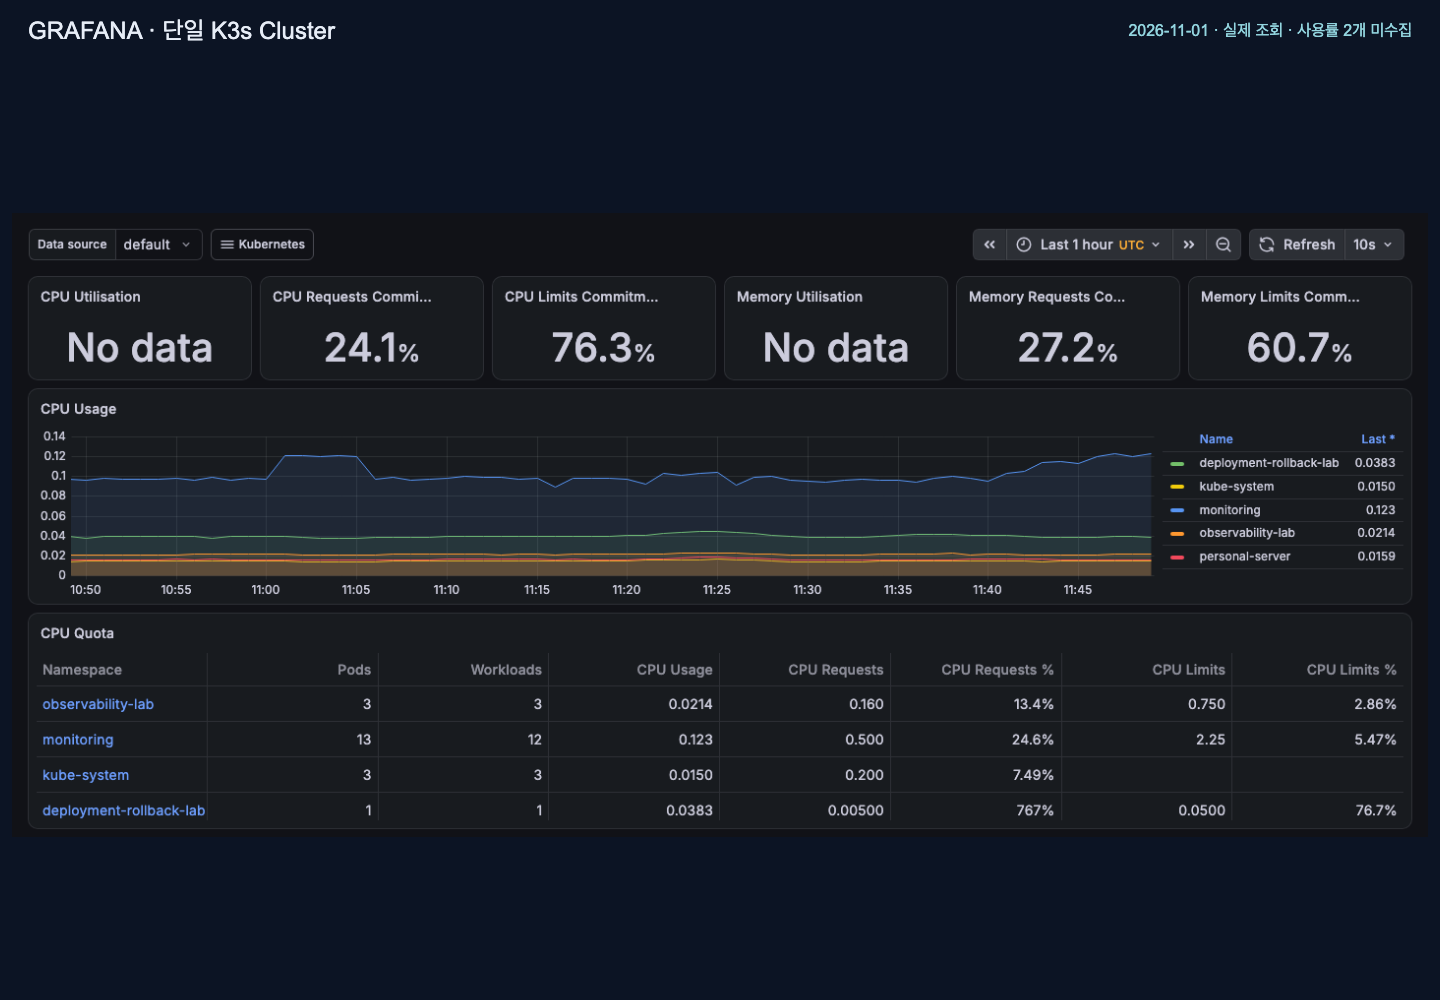
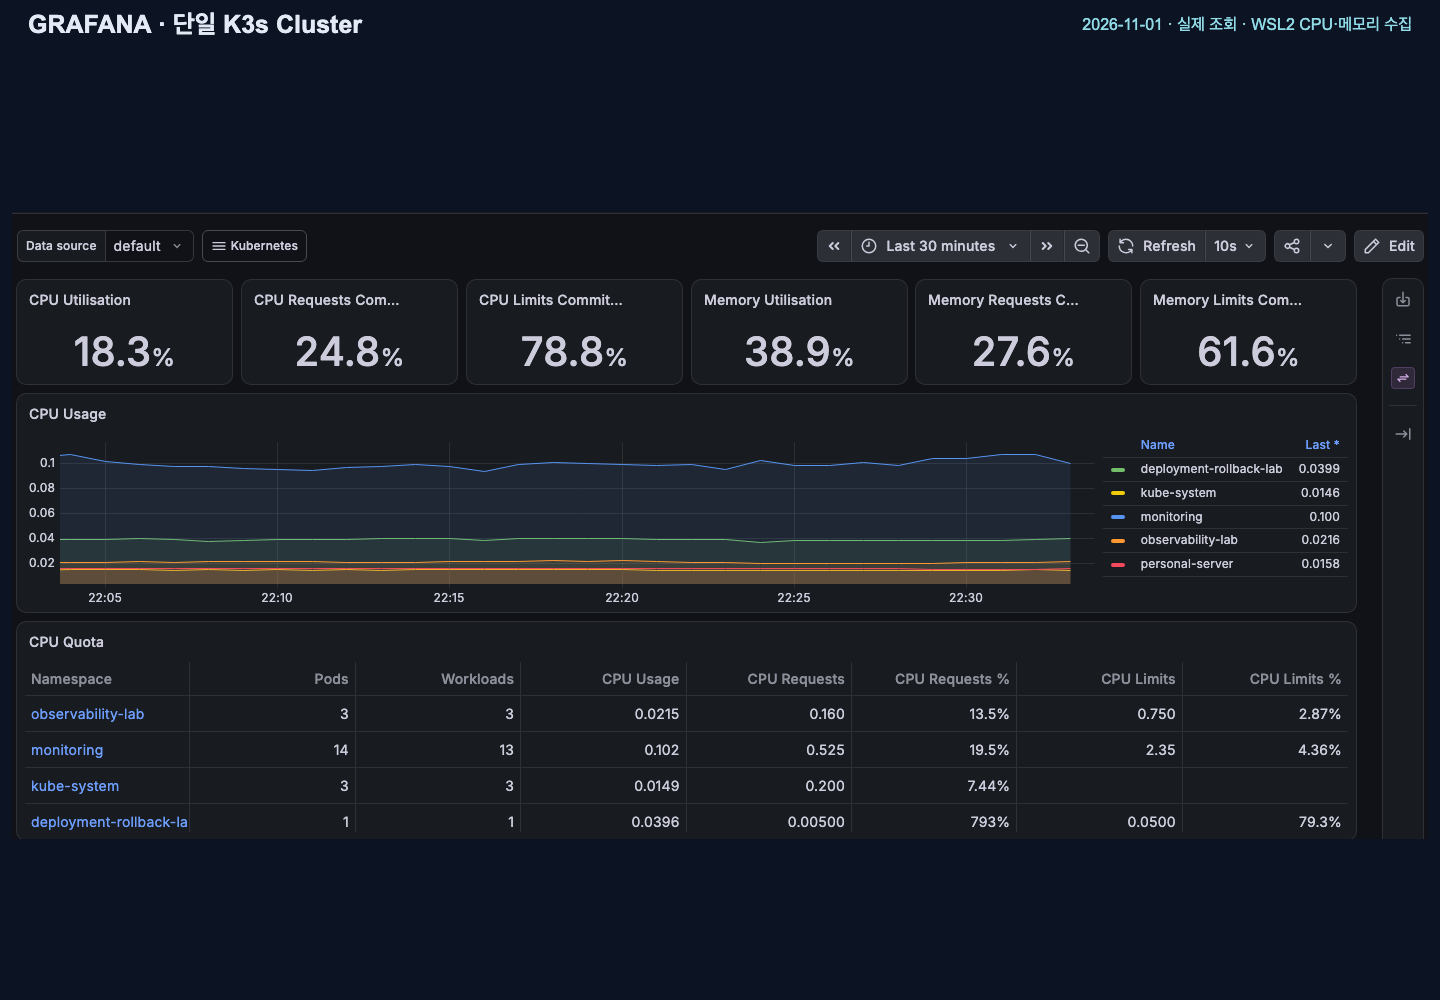
문서: WSL CPU·메모리 운영 검증과 화면 반영

diff --git a/docs/20261101_Grafana_WSL_CPU메모리_운영검증.md b/docs/20261101_Grafana_WSL_CPU메모리_운영검증.md
@@ -4,6 +4,8 @@
 
 | 항목 | 내용 | 비고 |
 |---|---|---|
+| 기준 시각 | 2026-11-01 22:33 | Asia/Seoul, 실제 화면 재촬영 기준 |
+| 작성·실행 | 주 담당 Codex | 구성·절차 구현자와 최종 독립 검토자 분리 |
 | 기준 | 기존 kube-prometheus-stack 88.6.1의 scrape·node.rules | 별도 Git 소유 최소 exporter, 기존 release 전체 upgrade 제외 |
 | 목적 | 단일 Cluster의 CPU·메모리 사용률 결측 복구 | Windows 물리 호스트가 아닌 WSL2 노드 범위 |
 | 승인 | 실제 WSL 검증·운영 적용·문제 시 원복과 결과 확인 | 이번 수집기 추가에 한정 |
@@ -11,14 +13,14 @@
 
 ## 핵심 요약
 
-호스트 볼륨을 전혀 마운트하지 않고 CPU·meminfo collector만 활성화함. hostNetwork·hostPID·hostIPC를 사용하지 않으며 일반 컨테이너의 `/proc`·`/sys` 경로를 읽음. WSL 커널 전체 통계와 일치하는지는 실제 WSL 원본 대조를 통과해야 확정함. 현재는 구현·오프라인 검증 단계이며 실제 WSL 시험·운영 적용 결과는 아래 절과 해당 PR에 확정 기록함.
+실제 WSL 시험과 N100 운영 적용을 완료함. CPU 4개·MemTotal 8,194,215,936바이트가 WSL 원본과 일치하며, 기존 CPU·메모리 recording과 실제 Grafana 패널의 결측이 해소됨. 호스트 볼륨 없이 CPU·meminfo만 수집하고 hostNetwork·hostPID·hostIPC를 사용하지 않음. 기존 16개 UP target·Prometheus Pod UID와 재시작 수·보호 대상을 유지함. 최종 운영 적용은 성공하여 운영 원복은 불필요했으며 초기 시험의 소유 임시 자원은 모두 정리함.
 
 ## 상세 내용
 
 | 대상 | 설정·동작 | 비고 |
 |---|---|---|
 | 이미지 | 공식 `master-distroless`의 고정 index `sha256:2aeca551ca3cb8c90f11fee9bcdf9859725c48f272d478aa79b9bbc48eda13ed` | 정식 릴리스 전 이미지임. HIGH/CRITICAL 0 확인 |
-| AMD64 | manifest `sha256:e8ce4eb143fe0c8236b0d144bc42b117f4a4196b814b950bd96cbc3ebed38785` | 실제 imageID와 대조 필요 |
+| AMD64 | manifest `sha256:e8ce4eb143fe0c8236b0d144bc42b117f4a4196b814b950bd96cbc3ebed38785` | 실제 runtime imageID는 위 고정 index digest와 일치 |
 | 권한 | non-root·모든 capability 제거·권한 상승 금지·읽기 전용 rootfs | ServiceAccount token 자동 마운트 없음 |
 | 노출 | Pod 네트워크와 ClusterIP Service만 사용 | 외부 ingress·호스트 9100 리스너 추가 없음 |
 | 수집 | CPU·meminfo만 활성화 | 기존 node-exporter alerting/추가 recording 활성화 없음 |
@@ -42,19 +44,63 @@
 
 | 구분 | 결과 | 비고 |
 |---|---|---|
-| 로컬 전체 검사 | 9개 묶음 PASS | 이후 최종 이미지·최신 main 영향 범위 131개 재검증 PASS |
+| 로컬 전체 검사 | 9개 묶음 PASS | 최종 호스트 마운트 제거 후 관련 구성·문서 41개 PASS, 영향 없는 전체 결과 재사용 |
 | 후보 이미지 | HIGH 0 / CRITICAL 0 | 안정 v1.12.1-distroless는 HIGH 15로 미실행 |
 | 이미지 신원 | index·AMD64 manifest·config blob 내용 해시 대조 PASS | 개발 이미지 수용 별도 승인 완료 |
-| 설정 보안 | 최초 hostPath 안은 CI KSV-0121 HIGH로 미병합·미실행 | 예외 처리 없이 호스트 마운트 0개로 축소, 최종 CI 확인 필요 |
-| 독립 검토 | 진행 중 | 구성 구현자와 다른 Sol high가 source·절차·사후 원본 검토 |
-| 실제 WSL·운영 | 준비 중 | 미수행 결과를 PASS로 표현하지 않음 |
+| 설정 보안 | 최초 hostPath 안은 CI KSV-0121 HIGH로 미병합·미실행 | 예외 처리 없이 마운트 0개로 축소, 최종 PR/main Trivy PASS |
+| 저장소 병합 | PR #466, main `514cc30b76332a21f21e85b1dc49d05492401533` | PR 필수 15개 검사·main CI 성공. Deploy N100은 `blocked_path`로 실제 배포 제외 |
+| N100 동기화 | 정확한 위 커밋으로 fast-forward PASS | main 추적 clean·hook 부재·기존 미추적 파일 2개 보존 |
+| 이미지 반입·실행 | 실제 runtime index digest 일치 PASS | 새 exporter만 해당 이미지 사용, 기존 앱 이미지 교체 없음 |
+| 수동 검증 | WSL 원본·운영 수집·recording·실제 UI PASS | 임시 Pod/SA 정리 후 동일 설정의 4개 자원 신규 생성 |
+| 자동 실행 활성화 | 별도 scheduler·복구 자동화 변경 해당 없음 | 신규 DaemonSet의 정상 유지와 별도 운영 자동화를 구분함 |
+| 외부 health | Portal·Book 전후 각각 3회 HTTP 200 | 완료 시각 기준 간격 10초 이상인 사전·사후 원본 보존 |
+| 최종 독립 검토 | 구현에 참여하지 않은 Sol high의 소스·실제 원격 GET PASS | 자기 검증·CI·독립 검토를 별도 증거로 구분함 |
+
+### 실제 수집·화면 근거
+
+| 항목 | 실제 결과 | 비고 |
+|---|---|---|
+| WSL CPU | 4개, USER_HZ 환산 원본 대조·카운터 증가 PASS | 컨테이너 CPU 제한 100m를 노드 용량으로 오인하지 않음 |
+| WSL 메모리 | 8,194,215,936바이트 원본 일치 | 컨테이너 메모리 제한 64Mi와 구분함 |
+| collector | CPU·meminfo 성공 1, 다른 node collector 비활성 | 호스트 마운트·자동 토큰 마운트 없음 |
+| 실행 신원 | version `1.12.1`, revision `f37c4cdea9a60fe0cc9c348a8af6ef501ef0c187`, Go `go1.27.3` | 버전 문자열과 별개로 공식 개발 이미지 digest를 고정함 |
+| Prometheus | 신규 node-exporter 1 UP, 기존 16 UP 유지 | 기존 CPU·메모리 recording 2개 정상, 추가 collector 불필요 |
+| 적용 직후 recording | CPU 약 3.45%, 메모리 약 38.68% | rate 계산 초기 대기 후 2회 검증, 지속 수치로 확대하지 않음 |
+| 실제 UI | CPU 18.3%, 메모리 38.9% | 2026-11-01 22:33, 정확한 단일 Cluster UID·실제 datasource 질의 10회 |
+| 유지·정리 | 수집기 1 Ready·재시작 0, 임시 Pod·SA 각각 0 | 기존 Prometheus UID·재시작 수와 보호 baseline 일치 |
+
+단일 Cluster UID는 `efa86fd1d0c121a26444b636a3f509a8`임. [실제 촬영 화면](images/grafana-k3s-overview.png)은 기존 1440 × 1000 프레임·배치를 유지하고 수치·그래프·표를 브라우저 원본 그대로 사용함. Windows 물리 호스트 지표로 해석하지 않음.
+
+### 시험 중 발견·보완과 원복 구분
+
+| 발견 사항 | 실제 영향·조치 | 검증 |
+|---|---|---|
+| 동기화 작업 ID 형식 | canonical UUID 검사에서 생성 전 중단함 | 원격 변경 부재 확인 후 형식 보완·정상 동기화 |
+| client dry-run JSON 출력 | 여러 YAML 문서가 연속 JSON으로 출력되어 생성 전 중단함 | 실제 자원 부재 확인·엄격한 4개 객체 stream 파서 보완·독립 재검토 |
+| Kubernetes 기본값·스케줄링 | probe의 0 기본값 생략으로 시험 신원 검사 실패, scheduler의 nodeName 추가로 최초 정리 검사 중단함 | 실제 이미지·UID·원본 차이 확인 후 해당 두 경계만 보완, UID/RV 조건으로 임시 Pod/SA 정리·실제 부재 확인 |
+| journal 직렬화 | 독립 사후 검토에서 tuple/list 표현 차이의 거짓 실패 가능성을 실행 전 발견함 | canonical JSON 동등 비교만 보완, UID·재시작·순서·인증 Secret 변경 거부 유지, 별도 post 실제 PASS |
+| 최종 운영 | CPU·메모리·기존 서비스 검증 성공 | 운영 4개 자원 원복은 미수행·불필요. UID 조건 원복의 fixture와 실제 시험 자원 정리를 운영 원복 실행으로 표현하지 않음 |
+
[1 lines of base64/hex data omitted]
+
+최초 사전 health는 2026-11-01 21:57, 사후 health는 22:27에 양 서비스 각각 3회·완료 간격 10초 이상·200을 확인함. 22:20의 추가 직전 점검도 6회 모두 200이지만 마지막 완료 간격은 약 9.2~9.7초여서 엄격한 10초 증거와 구분함. 사후 도구는 두 응답 완료 후 10.2초 대기하도록 보완함.
+
+### 역할·증거 보존
+
+| 담당 | 모델·추론·범위 | 결과·선택 이유 |
+|---|---|---|
+| 주 담당 | Codex, 통합·실제 실행·촬영·문서 | 자기 검증이며 최종 독립 검토와 구분함 |
+| 구성 구현 | Sol medium, YAML·관련 회귀 | 범위가 명확한 구성 구현 담당 |
+| 절차 구현 | Sol high, 제한 적용·UID 원복·fixture | 운영 실패 비용을 고려한 전문 구현 담당 |
+| 최종 독립 검토 | 별도 Sol high, 구현 파일 작성 없음 | source·금지 영역·보완 diff·실제 N100 GET 사전/사후 직접 대조 PASS |
+
+소스 독립성 하네스는 base `1311bf1` → head `44982b8` 대상 PASS임. main의 squash 커밋은 `514cc30`이며 동일 트리임. 운영 journal은 작업 UUID `83af8222-4696-438e-9551-8e7ae248c901`로 소유 UID를 구분함. 비밀값·내부 주소·계정은 증거에 저장하지 않으며, 소스 검토 receipt·검사·공개 이미지 신원·운영/화면/health·독립 GET 결과는 로컬 `build/grafana-wsl-node-metrics/514cc30/`에 보존함.
 
 ## 확인 필요 사항
 
-- 실제 WSL canary 수집·원본 일치·정상 종료와 새 수집기의 제한된 부하 확인 필요.
-- 운영 scrape·recording·실제 패널·기존 Prometheus 무재시작·보호 대상 유지 확인 필요.
-- 개발 이미지의 정식 보안 수정 릴리스 전환은 후속 버전 검토 대상임.
+- 개발 이미지는 정식 릴리스 전 버전임. 정식 보안 수정 릴리스로의 전환은 별도 후속 검토 필요.
+- 이번 결과는 WSL2 노드의 CPU·메모리 범위임. Windows 물리 호스트·네트워크·디스크 수집과 장기간 부하·가용성은 미검증임.
 
 ## 후속 조치
 
-현재 승인 범위의 CI·독립 검토·실제 적용을 계속하고 성공 또는 원복 결과를 정확한 커밋·실행 증거와 함께 갱신함. 승인 범위를 다른 exporter·경보·모니터링 전체 업그레이드로 확대하지 않음.
+이번 운영 승인은 검증·적용·정리·사후 확인 완료로 소진됨. 검사 통과 main의 정확한 소스를 먼저 운영 적용해야 했으므로 적용 후에 확정된 문서·이미지 결과는 별도 PR로 반영함. 이 문서 반영을 새 운영 배포로 해석하지 않으며, 다른 exporter·경보·전체 upgrade·새 운영 재실행으로 승인을 확대하지 않음.

diff --git a/docs/images/README.md b/docs/images/README.md
@@ -16,7 +16,7 @@
 | [파일함](file-manager.png) | 인증된 파일 작업 도구 | 2026-10-29 실제 HTTPS 화면의 상단 도구 영역 | 개인 파일 정보 제외, 데이터 작업 미실행 |
 | [관리자 상태](admin-status.png) | 서버 자원과 서비스 상태 | 2026-10-29 실제 HTTPS 관리자 화면의 서버 영역 | 내부 주소·보안 이벤트 상세 제외 |
 | [백업 상태](admin-backup-status.png) | Portal·Book·YouTube·Crawler·차량 DB 백업·복원 증거 | 2026-10-29 같은 관리자 화면의 백업 영역 | 원본 시각·상태·보관 수 유지 |
-| [Grafana](grafana-k3s-overview.png) | 단일 K3s Cluster 자원·네임스페이스별 CPU Quota 표 | 2026-11-01 정확한 제목·UID로 실제 조회 | CPU·메모리 사용률만 미수집. 이전 Multi-Cluster 오선택 정정 |
+| [Grafana](grafana-k3s-overview.png) | WSL2 CPU·메모리 사용률·단일 Cluster 자원·CPU Quota 표 | 2026-11-01 22:33 운영 적용 후 정확한 제목·UID로 실제 조회 | WSL 원본 대조 후 사용률 2개 결측 해소. Windows 물리 호스트 지표 아님 |
 | [차량 Telegram](car-care-telegram-status.png) | 운행·정비 알림 형식 | 기존 9월 실제 촬영 예시 보존 | 현재 차량 상태 아님, 추가 명령·메시지 전송 없음 |
 | [운영 구성도](personal-server-architecture-v2.svg) | 공개 경로·K3s/Compose 배치·앱별 writer 경계·순차 백업·관측 | 현재 코드·실제 Portal replicas/롤링 전략·운영 기록과 대조 | Portal 평상시 1개·교체 중 최대 2개, 공유 세션·온라인 백업 반영 |
 
@@ -24,17 +24,17 @@
 
 - 서비스의 실제 브라우저 화면을 촬영함. 관리자·파일함·Book은 기존 인증 정보를 메모리에서만 사용하고 임시 브라우저 컨텍스트를 종료함. 자격 증명·세션 쿠키·개인 파일 목록을 이미지·저장소에 저장하지 않음.
 - Grafana는 기존 인증으로 실제 서버 응답과 지표 질의를 읽어 표시함. 읽기 요청과 `/api/ds/query`만 허용한 임시 응답 전달 경로를 사용하며 대시보드·데이터 소스 설정은 저장하지 않음.
-- 프레임의 제목·촬영 날짜는 설명용임. 수치·성공 상태·기사·메모를 새로 만들거나 보정하지 않음. 관리자 백업의 시각·상태와 Grafana의 `No data`·과할당 비율을 원본대로 유지함.
-- 화면은 촬영 시점의 상태이며 지속 가용성·현재 수치·백업 복구 가능성 전체의 증거로 확대하지 않음. WSL2에서 node-exporter를 비활성화한 구성과 일부 지표의 한계를 유지함.
+- 프레임의 제목·촬영 날짜는 설명용임. 수치·성공 상태·기사·메모를 새로 만들거나 보정하지 않음. 관리자 백업의 시각·상태와 Grafana의 사용률·과할당 비율을 원본대로 유지함.
+- 화면은 촬영 시점의 상태이며 지속 가용성·현재 수치·백업 복구 가능성 전체의 증거로 확대하지 않음. 새 수집기는 CPU·meminfo만 활성화하며 네트워크·디스크 등 다른 노드 collector는 비활성 상태임.
 - Telegram은 과거 예시임을 프레임과 README에 명시함. 이미지 교체는 운영 배포·백업 실행·데이터 저장/삭제·인증 설정 변경을 포함하지 않음.
 
-## Grafana No data 조사 결과
+## Grafana No data 조사·복구 결과
 
 - 단일 Cluster UID는 `efa86fd1d0c121a26444b636a3f509a8`임. 이름의 일부만 검색하면 먼저 반환된 Multi-Cluster를 잘못 선택할 수 있어 정확한 제목·UID로 대조함.
-- 단일 Cluster의 원시 쿼리 중 CPU·메모리 사용률 2개만 결측이며 node-exporter 비활성화와 일치함. 나머지 쿼리는 결과가 있고 CPU Quota는 원본 브라우저에서 네임스페이스 5개·7개 지표 열의 정상 표를 확인함. 쿼리 식별자 보완 여부와 무관하게 정상임.
+- 최초 조사에서 사용률 2개 결측은 node-exporter 비활성화와 일치했음. 이후 사용자 승인으로 고정 이미지의 CPU·meminfo 수집기를 WSL 원본과 대조하고 운영 적용함. 실제 브라우저에서 CPU 18.3%·메모리 38.9%와 정상 CPU Quota 표를 다시 촬영함. 이는 2026-11-01 22:33 시점 값임.
 - Multi-Cluster 표는 `cluster` 라벨 결합을 요구하지만 현재 단일 클러스터 지표에는 이 라벨이 없음. 이전 캡처의 표 결측을 수집 장애로 확대하지 않음.
-- 컨테이너 CPU·working set과 KSM allocatable 지표는 존재하므로 별도 컨테이너 사용률 패널은 가능함. Windows·WSL 전체 사용률로 대체 표기하거나 결측을 0으로 만들지 않음. 이번 조사는 대시보드·수집·알림·운영 설정을 변경하지 않음.
+- 컨테이너 CPU·working set과 WSL2 노드 전체 통계는 구분함. Windows 사용률로 대체 표기하거나 결측을 0으로 만들지 않음. 기존 대시보드·recording·경보는 변경하지 않았으며 별도 Git 소유 최소 수집기 4개 자원만 추가함. [운영 검증](../20261101_Grafana_WSL_CPU메모리_운영검증.md)에 적용·원복 경계를 기록함.
 
 ## 검증 기준
 
-화면별 핵심 기능·가독성·민감정보 제외 여부를 시각 확인함. PNG 크기·형식·데이터 해제, SVG XML과 렌더링, 로컬 이미지·문서 링크 및 기존 문서 계약 검사를 확인함. 최초 이미지 최신화는 주 담당 1명이 수행함. 2026-11-01 Grafana 정정은 주 담당의 조사·촬영·자기 검증과 작성에 참여하지 않은 별도 Sol high의 실제 원본·diff·이미지 독립 검토로 구분함. 기능·운영 설정 변경은 수행하지 않음.
+화면별 핵심 기능·가독성·민감정보 제외 여부를 시각 확인함. PNG 크기·형식·데이터 해제, SVG XML과 렌더링, 로컬 이미지·문서 링크 및 기존 문서 계약 검사를 확인함. 최초 이미지 최신화는 주 담당 1명이 수행함. 2026-11-01 후속 수집기 적용은 구성·절차 구현과 독립 Sol high의 사전·실제 N100 사후 검토를 분리했으며, 주 담당은 실제 렌더 촬영·이미지 자기 검증을 수행함. 이번 문서·이미지 반영 자체는 운영 리소스를 변경하지 않음.
